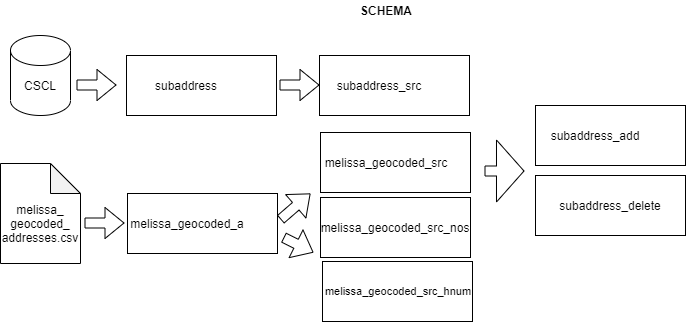
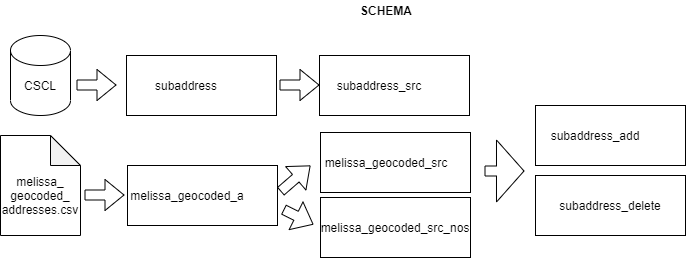
modifies hnum processing as described in #4

diff --git a/README.md b/README.md
@@ -1,21 +1,21 @@
 # cscl-subaddress-matched
 
-The Citywide Street Centerline (CSCL) database "subaddress" table contains unit addresses associated with an address point.  Emergency response systems, geocoders, and address validators use subaddresses.
+The New York City Citywide Street Centerline (CSCL) database "subaddress" table contains unit addresses associated with an address point.  Emergency response systems, geocoders, and address validators use subaddresses.
 
 The New York City Dept. of City Planning periodically geocodes 
 [Melissa](https://www.melissa.com/company/about) address data to CSCL address points.  When Melissa addresses are not matched in the database humans slog through the data and make updates to addresses and subaddresses.
 
-When Melissa addresses are matched to CSCL database addresses we perform a bulk update of CSCL subaddresses using the Melissa unit addresses.  For one matched address, Melissa unit addresses may:
+When Melissa addresses do match CSCL database addresses we perform a bulk update of CSCL subaddresses using the Melissa unit addresses.  For one matched address, a Melissa unit address may:
 
 * Match an existing CSCL subaddress record.  Keep these CSCL subaddresses.
 * Not match an existing CSCL subaddress record.  Add these unit addresses.
 
-Any remaining unmatched CSCL subaddresses for the address should be deleted. 
+Any remaining existing CSCL subaddresses that did not match Melissa subaddresses for the address should be deleted. 
 
 
 # Steps
 
-## 1. Set up objects in the scratch database schema
+## 1. Set up objects in a scratch database (Oracle, presently) schema 
 
 ```
 sqlplus devschema/"iluvesri247"@devdb @src/sql/setup.sql 
@@ -23,9 +23,9 @@ sqlplus devschema/"iluvesri247"@devdb @src/sql/setup.sql
 
 ## 2. Load the cscl.subaddress table into the same database schema
 
-This source table is registered with the geodatabase but is non-spatial, no archiving, no editor tracking.  There is a versioned view for SQL access.
+This source table is registered with the geodatabase but is non-spatial with no archiving, no editor tracking, and no daily editing.  A versioned view exists.
 
-Script something here later, use ArcCatalog now.
+Script something here later, use ArcCatalog now. 
 
 ## 3. Load the melissa_geocoded_addresses.csv in the same schema 
 
@@ -36,6 +36,11 @@ Using ArcCatalog (4 million records) takes ~2.5 hours.
 ```
 sqlplus devschema/"iluvesri247"@devdb @src/sql/insert_source.sql 
 ```
+
+## 5. Add aby records to subaddress_delete to force their replacement
+
+We might like to refresh subaddresses that exist but which we want to be
+refreshed with Melissa data.  For example, older subaddresses lacking house numbers.
 
 ## 5. Execute the delta code 
 
@@ -56,9 +61,9 @@ environment.
 
 1. Though sub_address_id is intended to be unique there is no constraint in the CSCL database. So this must be enforced in the work tables of this repository
 
-2. Though there is intended to be a foreign key relationship between CSCL.subaddress and CSCL.address_point this is not enforced.  This repository should check subaddress_add to ensure valid address point ids before adding records to the unconstrained target CSCL.subaddress table.
+2. Though there is intended to be a one to many foreign key relationship between CSCL.address_point and CSCL.subaddress this is not enforced.  This repository should check subaddress_add to ensure valid address point ids before adding records to the unconstrained target CSCL.subaddress table.
 
-3. Users expect the sub_address_id to be the unique, maintained business key for a subaddress record.  However the combination of a subaddress ap_id and melissa_suite uniquely identifies any subaddress.  This unique composite key should also be enforced in this repository.
+3. Users expect the sub_address_id to be the unique, maintained business key for a subaddress record.  However the combination of a subaddress ap_id (address point id), melissa_suite, usps_hnum (house number) uniquely identifies any subaddress and matches it to Melissa records.  This unique composite key should also be enforced in this repository.
 
 ## Tests
 
